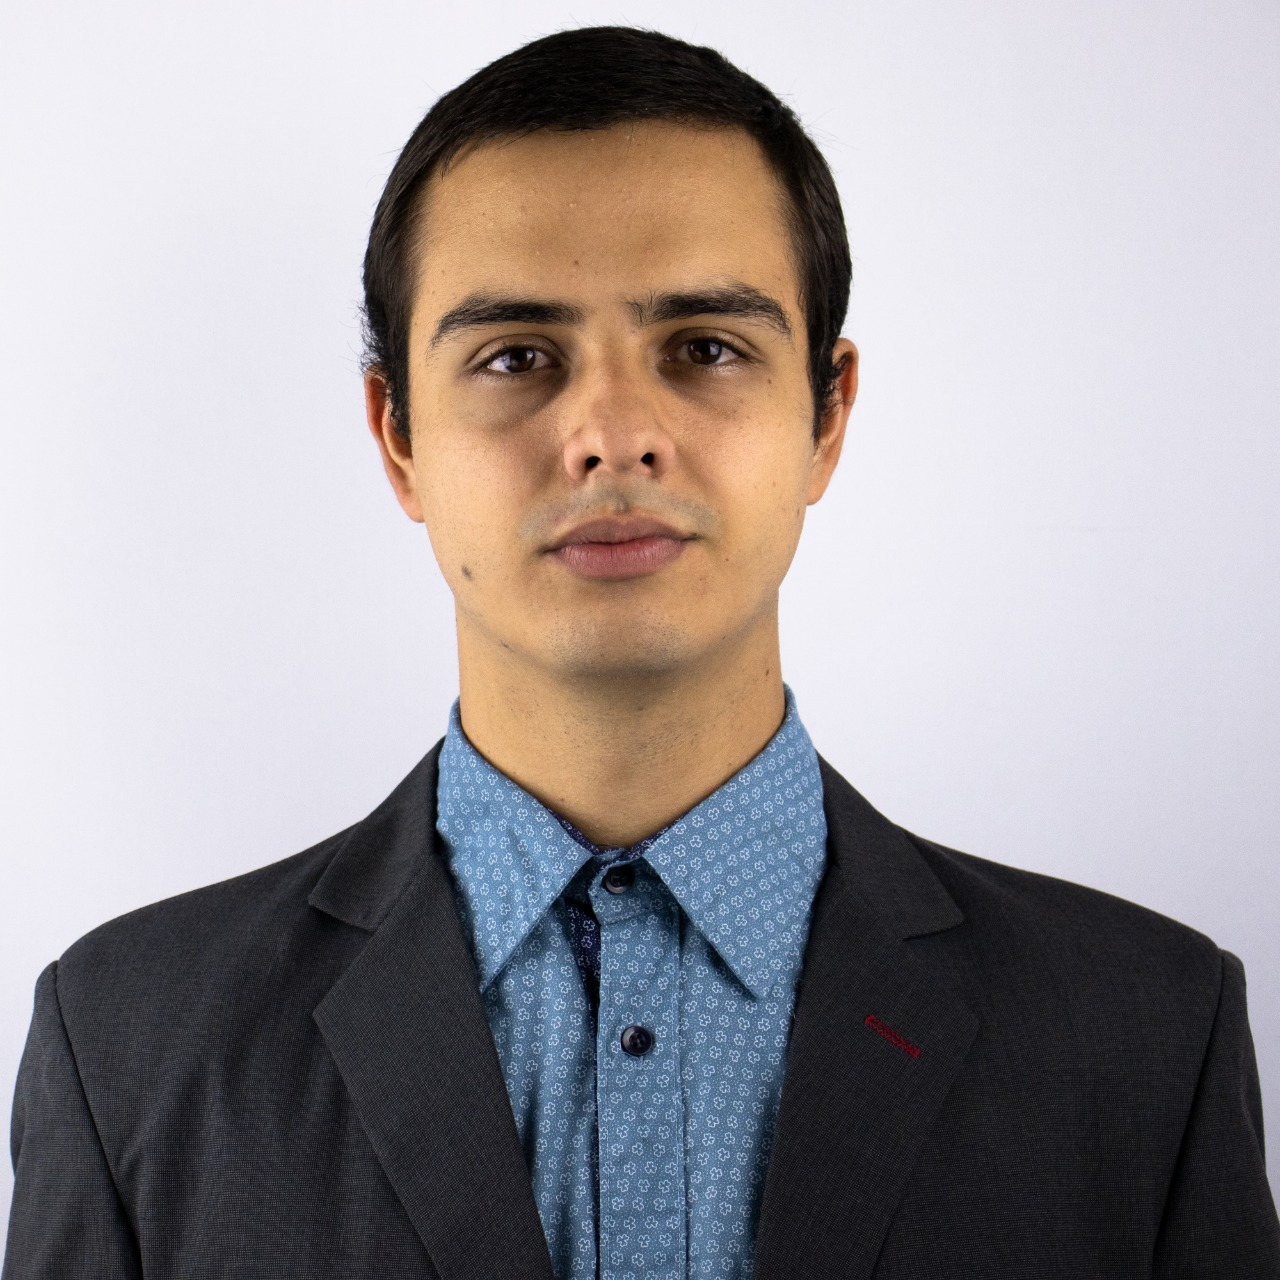
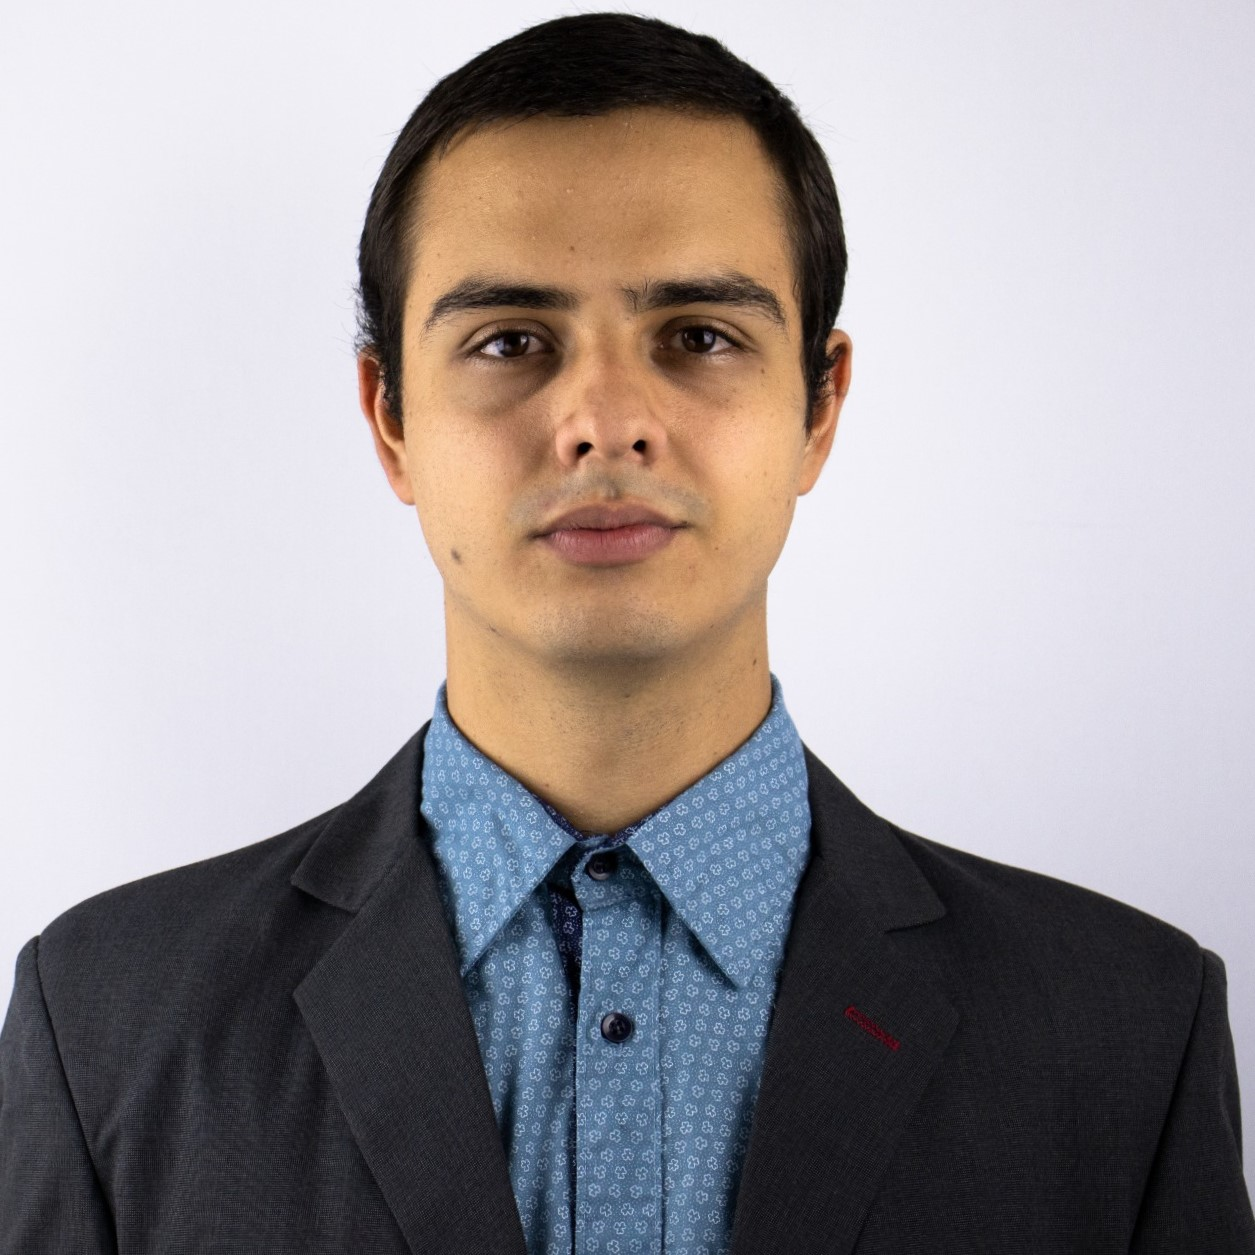
Added card for the projects page and added image to de about me section

diff --git a/src/components/Project.js b/src/components/Project.js
@@ -7,61 +7,61 @@ function Project() {
   return (
     <div className="App">
     <h1 className="mt-3">Projects</h1>
-      <Container className="my-3 projects-container">
-        <Card className="bg-dark text-white d-block project-card">
+      <Container className="my-3 projects-container align-items-center justify-content-center">
+        <a href="https://limitless-plateau-15055.herokuapp.com/" target="_blank" className="whistle-card"><Card className="bg-dark text-white d-block project-card">
           <Card.Img src="Whistle2.png" alt="Card image" className="project-img"/>
           <Card.ImgOverlay className="text-start">
             <Card.Title className="d-inline-block">Whistle</Card.Title>
-            <a href="https://github.com/AndreV96" target="_blank"><FontAwesomeIcon icon={faGithub}  className="ms-2 d-inline-block"/></a> 
+            <a href="https://github.com/AndreV96/Whistle" target="_blank"><FontAwesomeIcon icon={faGithub}  className="ms-2 d-inline-block projects-github-icon"/></a> 
             <Card.Text>
               HTML/CSS/JavaScript/NodeJs/Express/MySql
             </Card.Text>
           </Card.ImgOverlay>
-        </Card>
+        </Card></a>
         
-        <Card className="bg-dark text-white d-block project-card">
-          <Card.Img src="Whistle2.png" alt="Card image" className="project-img"/>
+        <a href="https://andrev96.github.io/Moviez/" target="_blank"><Card className="bg-dark text-white d-block project-card">
+          <Card.Img src="moviez_individual.png" alt="Card image" className="project-img"/>
           <Card.ImgOverlay className="text-start">
-            <Card.Title className="d-inline-block">Whistle</Card.Title>
-            <a href="https://github.com/AndreV96" target="_blank"><FontAwesomeIcon icon={faGithub}  className="ms-2 d-inline-block"/></a> 
+            <Card.Title className="d-inline-block">Moviez</Card.Title>
+            <a href="https://github.com/AndreV96/Moviez/" target="_blank"><FontAwesomeIcon icon={faGithub}  className="ms-2 d-inline-block projects-github-icon"/></a> 
             <Card.Text>
-              HTML/CSS/JavaScript/NodeJs/Express/MySql
+              HTML/CSS/JavaScript/Use of APIs
             </Card.Text>
           </Card.ImgOverlay>
-        </Card>
+        </Card></a>
 
-        <Card className="bg-dark text-white d-block project-card">
-          <Card.Img src="Whistle2.png" alt="Card image" className="project-img"/>
+        <a href="https://morning-lowlands-78728.herokuapp.com/" target="_blank"><Card className="bg-dark text-white d-block project-card">
+          <Card.Img src="Note_Taker.jpg" alt="Card image" className="project-img"/>
           <Card.ImgOverlay className="text-start">
-            <Card.Title className="d-inline-block">Whistle</Card.Title>
-            <a href="https://github.com/AndreV96" target="_blank"><FontAwesomeIcon icon={faGithub}  className="ms-2 d-inline-block"/></a> 
+            <Card.Title className="d-inline-block">Simple Note</Card.Title>
+            <a href="https://github.com/AndreV96/Simple_Note" target="_blank"><FontAwesomeIcon icon={faGithub}  className="ms-2 d-inline-block projects-github-icon"/></a> 
             <Card.Text>
-              HTML/CSS/JavaScript/NodeJs/Express/MySql
+              HTML/CSS/JavaScript/NodeJs/Express
             </Card.Text>
           </Card.ImgOverlay>
-        </Card>
+        </Card></a>
 
-        <Card className="bg-dark text-white d-block project-card">
-          <Card.Img src="Whistle2.png" alt="Card image" className="project-img"/>
+        <a href="https://andrev96.github.io/Forecasting/" target="_blank"><Card className="bg-dark text-white d-block project-card">
+          <Card.Img src="weather_dashboard.png" alt="Card image" className="project-img"/>
           <Card.ImgOverlay className="text-start">
-            <Card.Title className="d-inline-block">Whistle</Card.Title>
-            <a href="https://github.com/AndreV96" target="_blank"><FontAwesomeIcon icon={faGithub}  className="ms-2 d-inline-block"/></a> 
+            <Card.Title className="d-inline-block">Forecasting</Card.Title>
+            <a href="https://github.com/AndreV96/Forecasting/" target="_blank"><FontAwesomeIcon icon={faGithub}  className="ms-2 d-inline-block projects-github-icon"/></a> 
             <Card.Text>
-              HTML/CSS/JavaScript/NodeJs/Express/MySql
+              HTML/CSS/JavaScript/Use of APIs
             </Card.Text>
           </Card.ImgOverlay>
-        </Card>
+        </Card></a>
 
-        <Card className="bg-dark text-white d-block project-card">
-          <Card.Img src="Whistle2.png" alt="Card image" className="project-img"/>
+        <a href="https://andrev96.github.io/Every_Day/" target="_blank" className="ever-day-card"><Card className="bg-dark text-white d-block project-card ">
+          <Card.Img src="work_day.jpg" alt="Card image" className="project-img every-day-img"/>
           <Card.ImgOverlay className="text-start">
-            <Card.Title className="d-inline-block">Whistle</Card.Title>
-            <a href="https://github.com/AndreV96" target="_blank"><FontAwesomeIcon icon={faGithub}  className="ms-2 d-inline-block"/></a> 
+            <Card.Title className="d-inline-block">Every Day</Card.Title>
+            <a href="https://github.com/AndreV96/Every_Day/" target="_blank"><FontAwesomeIcon icon={faGithub}  className="ms-2 d-inline-block projects-github-icon"/></a> 
             <Card.Text>
-              HTML/CSS/JavaScript/NodeJs/Express/MySql
+              HTML/CSS/JavaScript
             </Card.Text>
           </Card.ImgOverlay>
-        </Card>
+        </Card></a>
       </Container>
     </div>
   );

diff --git a/src/components/AboutMe.js b/src/components/AboutMe.js
@@ -6,7 +6,7 @@ function AboutMe() {
     <div className="App py-3 bg-light bg-gradient justify-content-center d-flex">
       <Container className="max-width-720">
       <h2 className="text-center">About Me</h2>
-      <Image className="d-block rounded-circle" src="../public/pp.jpeg"></Image>
+      <Image className="d-block rounded-circle about-me-img mb-3" src="pp.jpeg"></Image>
       <p className="text-justify">Welcome to my Professional Portfolio, here you will be able to find all proyects I have created from scratch. They where made with the purpose of practicing my web developer skills in front-end as well as in back-end. Here you will find links to all the deployed websites and their github repositories. At the end of this portfolio you will find contact information with links to my LinkedIn, GitHub profile and CV (resume). </p>
       <p className="text-justify">My name is André Vega Lederer, I've been studying Computer Sciences in TecMilenio for the last 1.5 years. At the same time I've been learning Web Development skills to become a Full-Stack web developer. At the moment, I am taking the Tecnologico de Monterrey Coding Bootcamp. A 24-week intensive program focused on gaining technical programming skills in HTML5, CSS3, Javascript, JQuery, Bootstrap, Firebase, Node Js, MySQL, MongoDB, Express, Handlebars.js & ReactJS. I will finish it on May 12th.</p>
       </Container>

diff --git a/src/App.css b/src/App.css
@@ -65,6 +65,12 @@
   text-align: justify;
 }
 
+.about-me-img {
+  margin-left: auto;
+  margin-right: auto;
+  width: 100px;
+}
+
 /* Projects */
 
 .projects-container {
@@ -72,7 +78,7 @@
 }
 
 .project-card::before {
-  content: 'Whistle';
+  content: '';
   position: absolute;
   background-color: rgba(1, 1, 1, 0.5);
   transition: all 250ms ease-in-out;
@@ -87,17 +93,31 @@
   background-color: rgba(1, 1, 1, 0.1);
   transition: all 250ms ease-in-out;
 }
-
-/* Projects MQs*/
+.projects-github-icon {
+  top: 10px;
+  right: 10px;
+  position: absolute;
+  color: white;
+  width: 30px;
+  height: 30px;
+}
 
 .projects-container {
   display: grid;
   gap: 20px;
 }
 
+/* Projects MQs*/
+
 @media (min-width: 768px) {
   .projects-container {
     grid-template-columns: repeat(2, 1fr);
+  }
+  .whistle-card {
+  width: 50%;
+  grid-column: 1 / 3;
+  margin-left: auto;
+  margin-right: auto;
   }
 }
 
@@ -111,7 +131,7 @@
   height: 50px;
 }
 
-.footer-icons:hover {
+.footer-icons:hover, .projects-github-icon:hover {
   color: #6c757d;
   cursor: pointer;
 }
